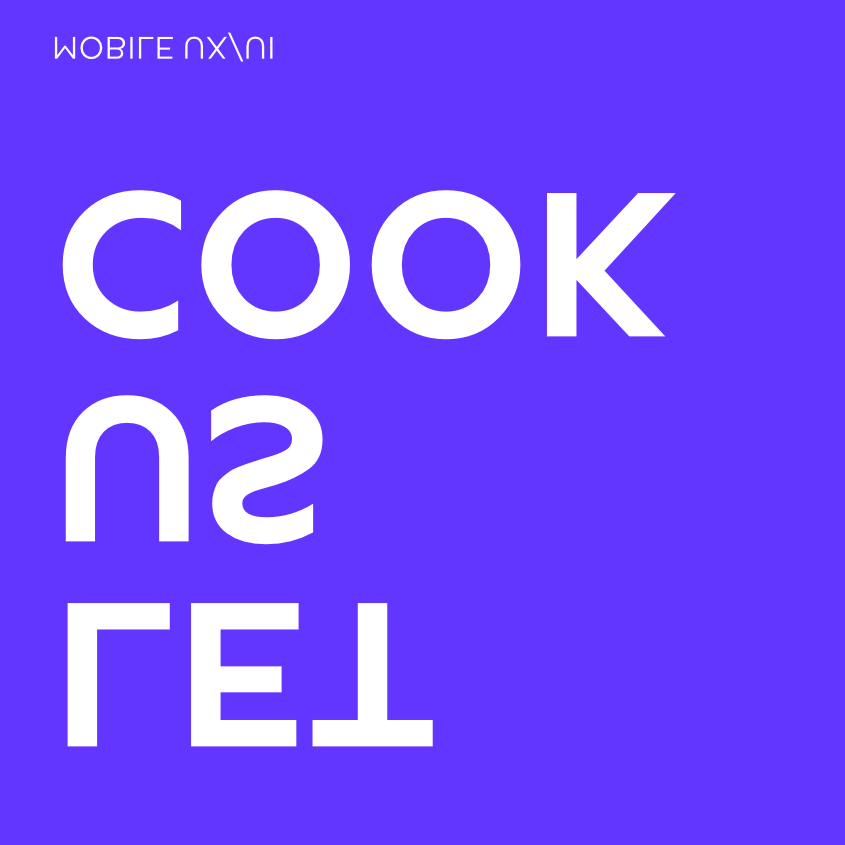
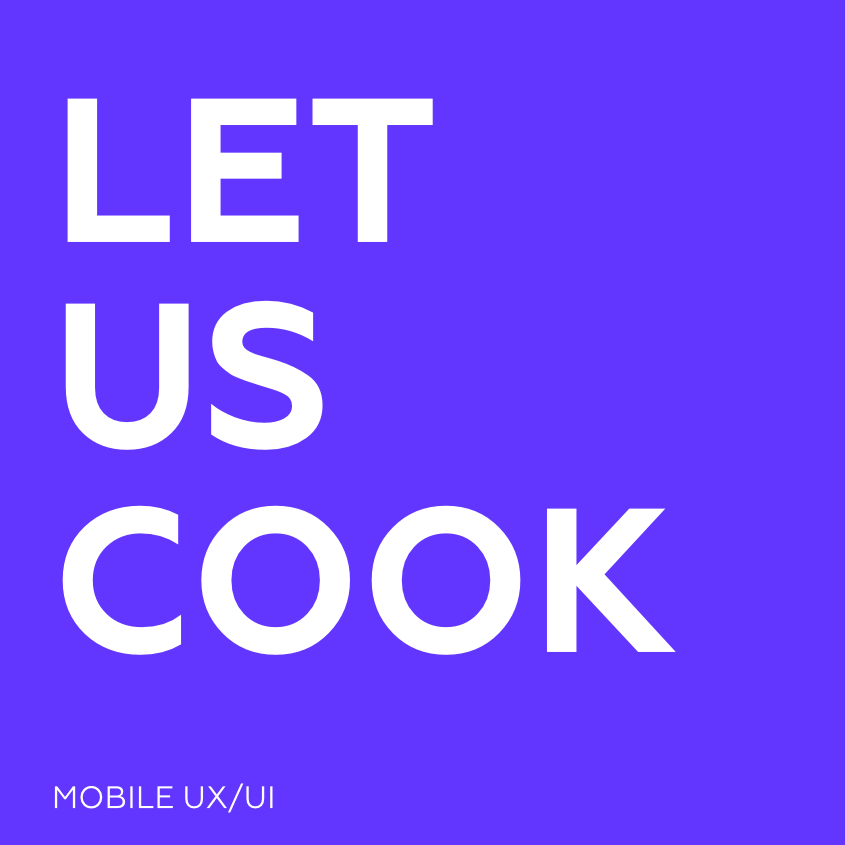
Add files via upload

diff --git a/css/mainstyle.css b/css/mainstyle.css
@@ -8,26 +8,25 @@ main{
 .project1{
     width: 70vh;
     height: 70vh;
-    background-image: url(../images/Project1.jpg);
+    background-image: url(../images/project4.jpg);
     background-size: cover;
    margin-right: 1%;
    cursor: pointer;
 }
 
-
 .project2{
     width: 70vh;
     height: 70vh;
-    background-image: url(../images/project2.jpg);
+    background-image: url(../images/Project1.jpg);
     background-size: cover;
-    margin-left: 1%;
+    margin-left: 4%;
     cursor: pointer;
 }
 
 .project3{
     width: 70vh;
     height: 70vh;
-    background-image: url(../images/project3.jpg);
+    background-image: url(../images/project2.jpg);
     background-size: cover;
     margin-right: 1%;
     cursor: pointer;
@@ -36,16 +35,15 @@ main{
 .project4{
     width: 70vh;
     height: 70vh;
-    background-image: url(../images/project4.jpg);
+    background-image: url(../images/project3.jpg);
     background-size: cover;
-    margin-left: 1%;
+    margin-left: 4%;
     cursor: pointer;
 
 }
 
 .lineapro{
     display: flex;
-    margin-bottom: 2%;
     justify-content: center;
 }
 
@@ -116,8 +114,8 @@ main{
     }
     .case1{
         width: 100%;
-        height: auto;
-        margin-bottom: 50px;
+        height: 40vh;
+        padding-bottom: 64px;
     }
 
     .case1 a{
@@ -130,6 +128,7 @@ main{
     }
     .pie{
         padding-top: 4%;
+        padding-bottom: 50%;
     }
 
     .right{
@@ -152,13 +151,11 @@ main{
     .linkedin2{
         font-size: 16px;
         color: white;
-        padding-right: 8px;
     }
 
     .medium2{
         font-size: 16px;
         color: white;
-        padding-right: 8px;
     }
 
     .behance2{

diff --git a/css/buttons.css b/css/buttons.css
@@ -1,45 +1,24 @@
- @-webkit-keyframes flip-horizontal-bottom {
-    0% {
-      -webkit-transform: rotateX(0);
-              transform: rotateX(0);
-    }
-    100% {
-      -webkit-transform: rotateX(-180deg);
-              transform: rotateX(-180deg);
-    }
-  }
-  @keyframes flip-horizontal-bottom {
-    0% {
-      -webkit-transform: rotateX(0);
-              transform: rotateX(0);
-    }
-    100% {
-      -webkit-transform: rotateX(-180deg);
-              transform: rotateX(-180deg);
-    }
-  }
+
+.project1:hover{
+  background: url(../images/Group5.png);
+  background-size: cover;
   
-  .project1:hover{
+}
+.project2:hover{
     background: url(../images/Group2.png);
     background-size: cover;
-    -webkit-animation: flip-horizontal-bottom 0.4s cubic-bezier(0.455, 0.030, 0.515, 0.955) both;
-    animation: flip-horizontal-bottom 0.4s cubic-bezier(0.455, 0.030, 0.515, 0.955) both;
-
-}
-
-.project2:hover{
-    background: url(../images/Group3.png);
-    background-size: cover;
-    -webkit-animation: flip-horizontal-bottom 0.4s cubic-bezier(0.455, 0.030, 0.515, 0.955) both;
-    animation: flip-horizontal-bottom 0.4s cubic-bezier(0.455, 0.030, 0.515, 0.955) both;
 
 }
 
 .project3:hover{
+    background: url(../images/Group3.png);
+    background-size: cover;
+
+}
+
+.project4:hover{
     background: url(../images/Group4.png);
     background-size: cover;
-    -webkit-animation: flip-horizontal-bottom 0.4s cubic-bezier(0.455, 0.030, 0.515, 0.955) both;
-    animation: flip-horizontal-bottom 0.4s cubic-bezier(0.455, 0.030, 0.515, 0.955) both;
 
 }
 

diff --git a/css/footer.css b/css/footer.css
@@ -6,3 +6,8 @@ footer{
 
 .editor{
 text-align: baseline;}
+
+.number{
+    display: flex;
+    padding-top: 1%;
+}
